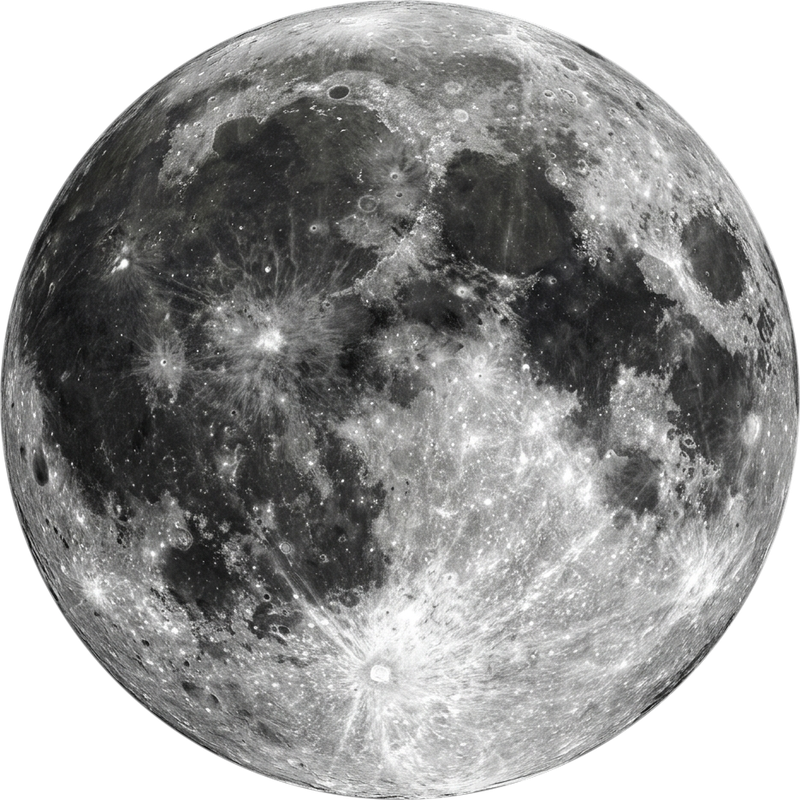
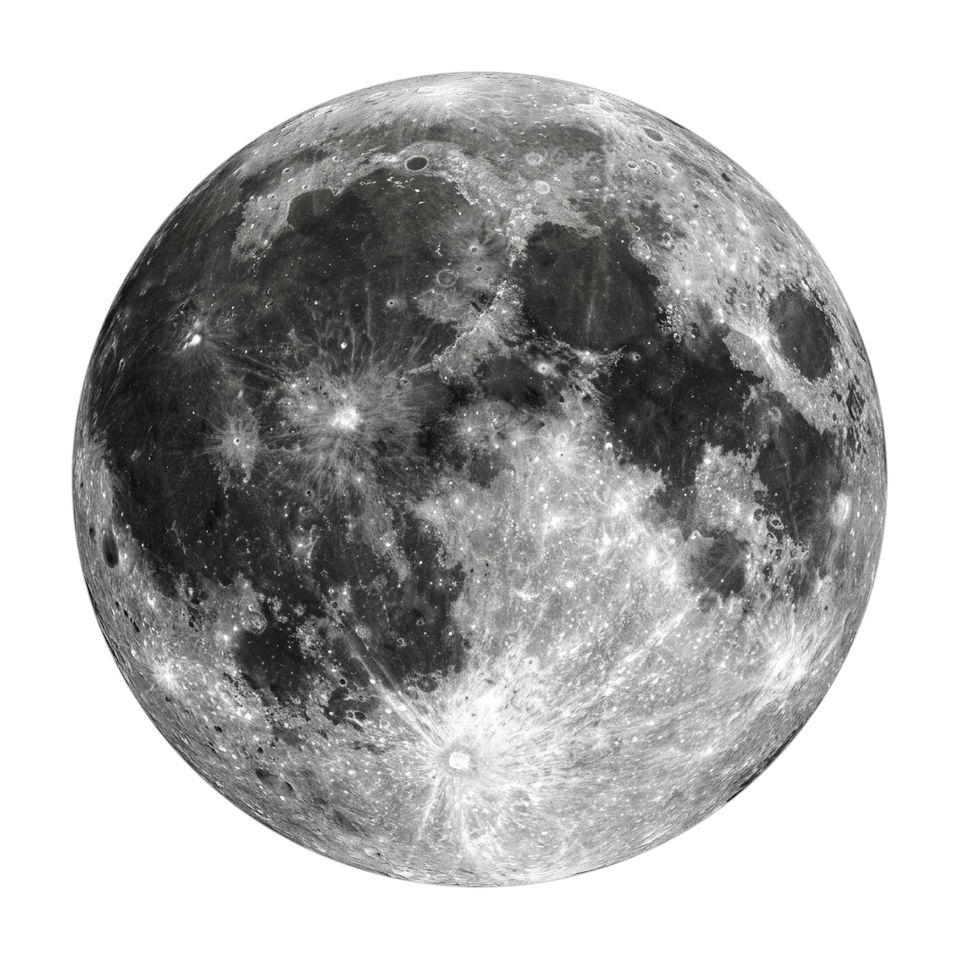
fix: position complete full moon disc fully inside viewport with zero border clipping

diff --git a/index.html b/index.html
@@ -8,7 +8,7 @@
   <link rel="preconnect" href="https://fonts.googleapis.com">
   <link rel="preconnect" href="https://fonts.gstatic.com" crossorigin>
   <link href="https://fonts.googleapis.com/css2?family=Space+Grotesk:wght@300;400;500;600;700&family=Inter:wght@300;400;500;600&family=Space+Mono:ital,wght@0,400;0,700&display=swap" rel="stylesheet">
-  <link rel="stylesheet" href="style.css?v=16.0">
+  <link rel="stylesheet" href="style.css?v=17.0">
 </head>
 <body>
 
@@ -172,8 +172,8 @@
     <!-- Atmospheric Moon in Background — Just like Astronaut -->
     <div class="experience-moon-bg" aria-hidden="true">
       <picture>
-        <source srcset="assets/full_moon.webp?v=16.0" type="image/webp">
-        <img src="assets/full_moon.png?v=16.0" alt="" class="experience-moon-img" draggable="false" loading="lazy">
+        <source srcset="assets/full_moon.webp?v=17.0" type="image/webp">
+        <img src="assets/full_moon.png?v=17.0" alt="" class="experience-moon-img" draggable="false" loading="lazy">
       </picture>
     </div>
 
@@ -546,6 +546,6 @@
     </div>
   </footer>
 
-  <script src="script.js?v=16.0"></script>
+  <script src="script.js?v=17.0"></script>
 </body>
 </html>

diff --git a/style.css b/style.css
@@ -443,13 +443,14 @@ body::before {
 
 .experience-moon-bg {
   position: absolute;
-  top: 45%;
-  right: clamp(-160px, -8vw, -60px);
+  top: 48%;
+  right: clamp(10px, 3vw, 60px);
   transform: translateY(-50%);
-  width: clamp(460px, 36vw, 660px);
+  width: clamp(360px, 30vw, 500px);
+  max-width: 44vw;
   pointer-events: none;
   z-index: 0;
-  opacity: 0.52;
+  opacity: 0.58;
 }
 
 .experience-moon-img {
@@ -458,7 +459,7 @@ body::before {
   display: block;
   user-select: none;
   pointer-events: none;
-  filter: drop-shadow(0 0 35px rgba(226, 232, 240, 0.12));
+  filter: drop-shadow(0 0 40px rgba(226, 232, 240, 0.15));
 }
 
 .experience-section .experience-content,
@@ -473,9 +474,9 @@ body::before {
 
 @media (max-width: 992px) {
   .experience-moon-bg {
-    width: clamp(340px, 32vw, 460px);
-    right: -120px;
-    top: 46%;
+    width: clamp(280px, 28vw, 380px);
+    right: 15px;
+    top: 48%;
     opacity: 0.40;
   }
 }
